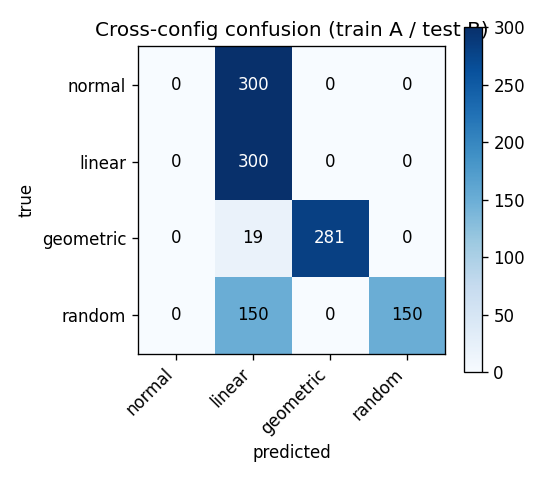
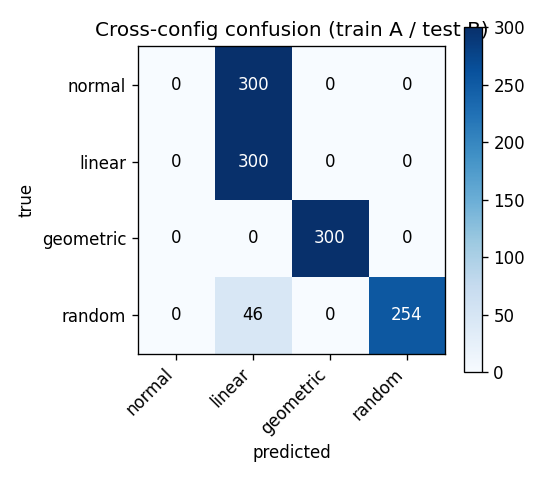
Update confusion matrices; add original generator backup

diff --git a/dow_data_ORIGINAL.py b/dow_data_ORIGINAL.py
@@ -1,0 +1,160 @@
+"""
+dow_data.py  --  the DoWTS-compatible data generator
+====================================================
+DoWTS will not compile, so this recreates its four canonical traffic patterns as
+24 x 30 heat-maps (rows = hour 0-23, cols = day 1-30, cell = invocation count):
+
+    class 0  normal      diurnal baseline (busy midday, quiet night)
+    class 1  linear      gradual ramp-up over the month
+    class 2  geometric   exponential surge, mostly late month
+    class 3  random      scattered speckle
+
+Each ATTACK sample is generated at a low or high INTENSITY:
+    intensity 1 = low  -> the slow "leech" (continual inconspicuous) case
+    intensity 2 = high -> the obvious "flood" case
+(normal = intensity 0). Experiment 3 (leech vs flood) uses this tag.
+
+The low-rate leech samples use an adaptive pattern hidden inside the diurnal
+envelope -- a more realistic leech than the primitive published ones.
+
+Run:
+    python dow_data.py --per-class 300 --out data.npz
+    python dow_data.py --preview            # save a preview PNG
+"""
+import argparse
+import numpy as np
+
+HOURS, DAYS = 24, 30
+CLASS_NAMES = ["normal", "linear", "geometric", "random"]
+_NORM_REF = np.log1p(400.0)
+
+
+def normalize(x):
+    """log1p then fixed scaling (shared by every experiment script)."""
+    return (np.log1p(np.clip(x, 0, None)) / _NORM_REF).astype("float32")
+
+
+def _diurnal_base(rng, amp=30.0):
+    hours = np.arange(HOURS)[:, None]
+    days = np.arange(DAYS)[None, :]
+    daily = 0.15 + np.exp(-((hours - 13.0) ** 2) / (2 * 3.5 ** 2))
+    weekly = np.where(np.isin(days % 7, [5, 6]), 0.7, 1.0)
+    return rng.poisson(amp * daily * weekly).astype("float32")
+
+
+def _envelope():
+    hours = np.arange(HOURS)[:, None]
+    return 0.15 + np.exp(-((hours - 13.0) ** 2) / (2 * 3.5 ** 2))
+
+
+def _gen_normal(rng, intensity=0):
+    return _diurnal_base(rng)
+
+
+def _gen_linear(rng, intensity):
+    g = _diurnal_base(rng)
+    days = np.arange(DAYS)[None, :]
+    if intensity == 1:                       # leech: subtle, hidden in the daily shape
+        slope = rng.uniform(8, 16)
+        extra = _envelope() * (days / (DAYS - 1)) * slope
+    else:                                    # flood: obvious ramp
+        slope = rng.uniform(35, 60)
+        extra = (days / (DAYS - 1)) * slope
+    return g + rng.poisson(np.clip(extra, 0, None)).astype("float32")
+
+
+def _gen_geometric(rng, intensity):
+    g = _diurnal_base(rng)
+    days = np.arange(DAYS)[None, :]
+    base = rng.uniform(0.3, 0.7) if intensity == 1 else rng.uniform(1.2, 2.5)
+    surge = np.clip(base * (1.18 ** days), 0, 130)
+    return g + rng.poisson(np.broadcast_to(surge, g.shape)).astype("float32")
+
+
+def _gen_random(rng, intensity):
+    g = _diurnal_base(rng)
+    speckle = np.zeros_like(g)
+    if intensity == 1:
+        n, lo, hi = rng.integers(30, 60), 20, 45
+    else:
+        n, lo, hi = rng.integers(80, 140), 50, 100
+    hs = rng.integers(0, HOURS, n); ds = rng.integers(0, DAYS, n)
+    speckle[hs, ds] += rng.integers(lo, hi, n)
+    return g + speckle
+
+
+_GEN = {0: _gen_normal, 1: _gen_linear, 2: _gen_geometric, 3: _gen_random}
+
+
+def generate_dataset(per_class=300, seed=42):
+    """
+    Returns X (N,1,24,30 raw counts), y (class 0-3), intensity (0 none/1 leech/2 flood).
+    """
+    rng = np.random.default_rng(seed)
+    X, y, inten = [], [], []
+    for c in range(4):
+        for i in range(per_class):
+            if c == 0:
+                lvl = 0
+            else:
+                lvl = 1 if i < per_class // 2 else 2     # half leech, half flood
+            grid = _GEN[c](rng, lvl)
+            X.append(grid[None, ...])                    # channel-first (1,24,30)
+            y.append(c); inten.append(lvl)
+    X = np.asarray(X, dtype="float32")
+    y = np.asarray(y, dtype="int64")
+    inten = np.asarray(inten, dtype="int64")
+    idx = rng.permutation(len(y))
+    return X[idx], y[idx], inten[idx]
+
+
+def load_and_split(path, seed=42, val=0.15, test=0.15):
+    """Load the npz and return normalised, stratified train/val/test numpy splits."""
+    from sklearn.model_selection import train_test_split
+    d = np.load(path, allow_pickle=True)
+    X, y, inten = normalize(d["X"]), d["y"], d["intensity"]
+    Xtr, Xtmp, ytr, ytmp, itr, itmp = train_test_split(
+        X, y, inten, test_size=val + test, random_state=seed, stratify=y)
+    rel = test / (val + test)
+    Xv, Xte, yv, yte, iv, ite = train_test_split(
+        Xtmp, ytmp, itmp, test_size=rel, random_state=seed, stratify=ytmp)
+    return (Xtr, ytr, itr), (Xv, yv, iv), (Xte, yte, ite), list(CLASS_NAMES)
+
+
+def save_preview(path="data_preview.png", seed=1):
+    import matplotlib.pyplot as plt
+    rng = np.random.default_rng(seed)
+    rows = [("normal", 0, 0), ("linear leech", 1, 1), ("linear flood", 1, 2),
+            ("geometric leech", 2, 1), ("geometric flood", 2, 2),
+            ("random leech", 3, 1), ("random flood", 3, 2)]
+    fig, axes = plt.subplots(1, len(rows), figsize=(2.1 * len(rows), 3))
+    for ax, (title, c, lvl) in zip(axes, rows):
+        ax.imshow(_GEN[c](rng, lvl), origin="lower", aspect="auto", cmap="magma")
+        ax.set_title(title, fontsize=9, fontweight="bold")
+        ax.set_xticks([]); ax.set_yticks([])
+    fig.suptitle("Four-class DoW heat-maps (leech = low-rate, flood = high-rate)",
+                 fontsize=12, fontweight="bold")
+    fig.tight_layout(rect=[0, 0, 1, 0.92])
+    fig.savefig(path, dpi=130, bbox_inches="tight"); plt.close(fig)
+    print("saved", path)
+
+
+def main():
+    ap = argparse.ArgumentParser()
+    ap.add_argument("--per-class", type=int, default=300)
+    ap.add_argument("--out", default="data.npz")
+    ap.add_argument("--preview", action="store_true")
+    ap.add_argument("--seed", type=int, default=42)
+    args = ap.parse_args()
+    if args.preview:
+        save_preview(); return
+    X, y, inten = generate_dataset(args.per_class, args.seed)
+    np.savez_compressed(args.out, X=X, y=y, intensity=inten,
+                        class_names=np.array(CLASS_NAMES))
+    print(f"saved {args.out}: X={X.shape} classes={CLASS_NAMES} "
+          f"counts={np.bincount(y).tolist()} "
+          f"intensity(0/1/2)={np.bincount(inten).tolist()}")
+
+
+if __name__ == "__main__":
+    main()
